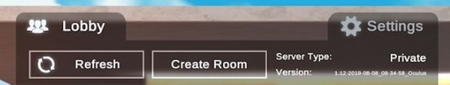
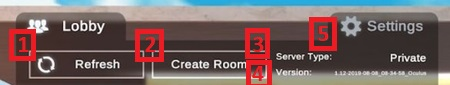
Added gifs and images

diff --git a/docs/navigation/lobby.md b/docs/navigation/lobby.md
@@ -32,17 +32,17 @@ Users can visit previous levels by selecting the 'back' button on the Level Pane
 
 Users can restart the level by selecting the refresh icon on the left of the Level Panel once a level is complete. Users can move onto the next level by selecting the right arrow on the right of the Level Panel once a level is complete.
 
-## Bar Buttons
+## Lobby Top Bar
 
 Refresh, Creating a Room, and Settings
 
 ![](/assets/navigating-page/Lobby-Navigation.jpg)
 
-### Refresh
+### (1) Refresh
 
 Users can refresh the available room list by selecting the 'Refresh' button at the top of the Lobby Navigation Bar Buttons.
 
-### Creating a Room
+### (2) Creating a Room
 
 ![](/assets/navigating-page/Lobby-CreateRoom.jpg)
 
@@ -54,7 +54,17 @@ Room Types:
 - Private Rooms: A password is set for the room. Available to Academic and Enterprise
 - Single User: Offline mode which no one else can join. Available to Academic and Enterprise
 
-### Settings
+![](/assets/navigating-page/Lobby-ServerTypeAndVersion.jpg)
+
+### (3) Server Type
+
+Indicates connection to Nanome Public Server or Custom Private Server
+
+### (4) Version
+
+Indicates Nanome version
+
+### (5) Settings
 
 ![](/assets/navigating-page/Lobby-Setting.jpg)
 
@@ -66,26 +76,9 @@ By selecting the Configuration button in the Setting tab, users can view the Nan
 
 ![](/assets/navigating-page/Lobby-ConfigurationViewer.jpg)
 
-## Bar Statuses
-
-![](/assets/navigating-page/Lobby-ServerTypeAndVersion.jpg)
-
-### Server Type
-
-Indicates connection to Nanome Public Server or Custom Private Server
-
-### Version
-
-Indicates Nanome version
 
 ## Update Banner
 
 ![](/assets/navigating-page/Lobby-UpdateBanner.jpg)
 
 The update banner features the latest features that are added in the build that the users are in.
-
-## Joining a Room
-
-![](/assets/navigating-page/Lobby-JoiningRoom.jpg)
-
-In order to join a room, select a room from the lobby.

diff --git a/docs/navigation/environment.md b/docs/navigation/environment.md
@@ -6,7 +6,11 @@ title: Environment
 
 ![](/assets/features-page/collaboration.gif)
 
-In addition to physically moving around in VR, users can teleport around the environment by pointing to a spot on the floor and clicking and holding with their index finger.
+### Teleportation
+
+![](/assets/features-page/Teleportation.gif)
+
+In addition to physically moving around in VR, users can teleport around the environment by pointing to a spot on the floor and pressing and holding down the trigger button with their index finger.
 
 ### Scaling
 

diff --git a/docs/navigation/actionmenu.md b/docs/navigation/actionmenu.md
@@ -4,6 +4,8 @@ title: Action Menu
 
 # Action Menu
 
+![](/assets/navigating-page/ActionMenu.gif)
+
 ![](/assets/navigating-page/ActionMenu.jpg)
 
 Action menu offers a quick access to all major features in Nanome anywhere. If you are using a Vive system, press and hold the touch pad on your left controller to activate the menu. If you are using an Oculus system, press and hold the Y button on your left controller to activate the menu.
